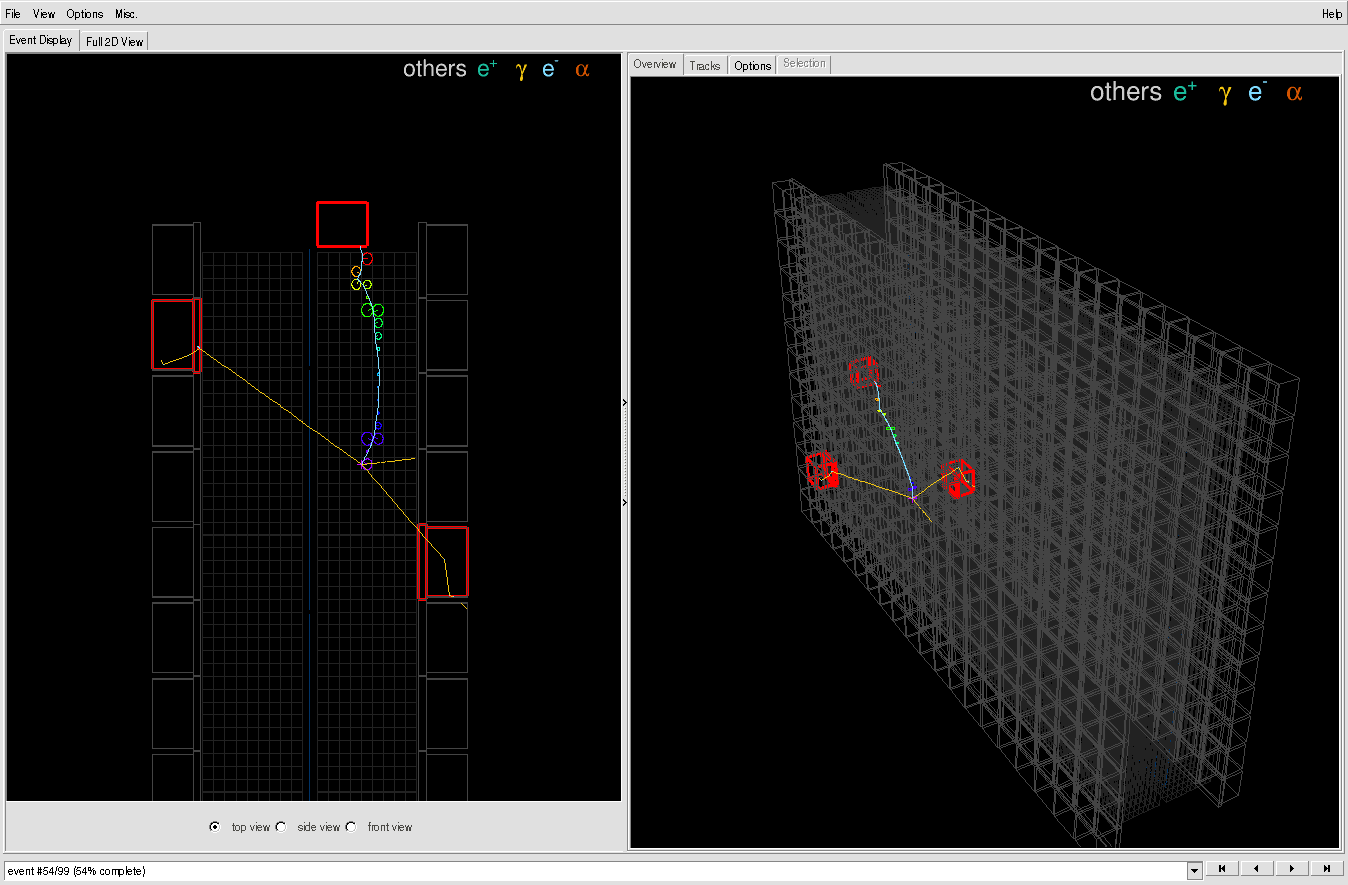
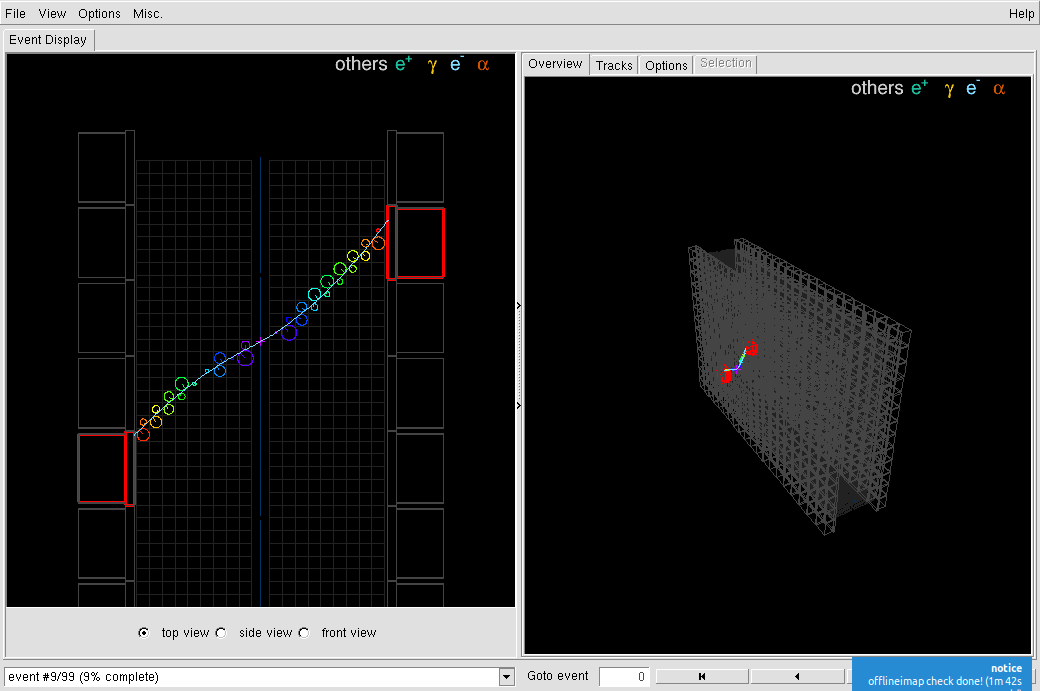
update documentation

Changed region(s): [[0.0, 0.0, 1.0, 1.0], [0.3692, 0.1823, 0.4308, 0.2127], [0.0923, 0.1823, 0.1231, 0.2127]]

diff --git a/documentation/flvisualize/FLVisualize.md b/documentation/flvisualize/FLVisualize.md
@@ -220,7 +220,8 @@ The right panel contains several pans:
 
 A bottom bar contains:
 
-- a message log combo (read only),
+- a message log combo,
+- an event number entry widget,
 - a set of navigation buttons to loop on input events (forward/backward).
 
 It is recommended to maximize the size of the FLVisualize's main window on your desktop.
